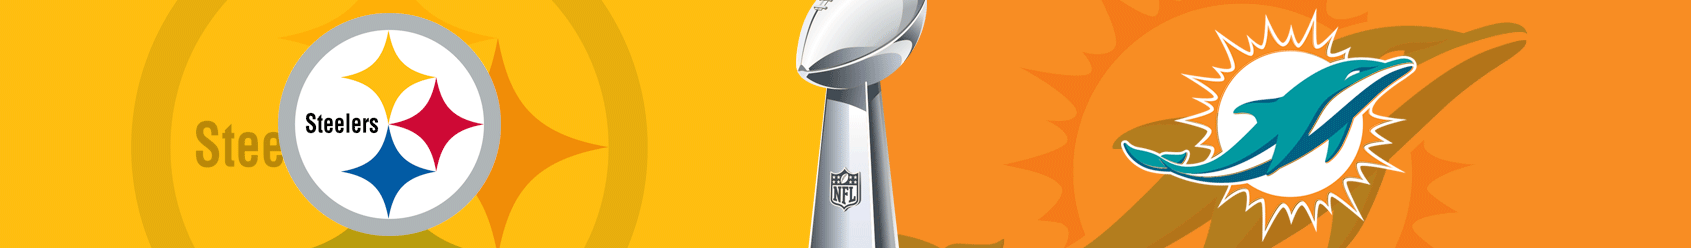
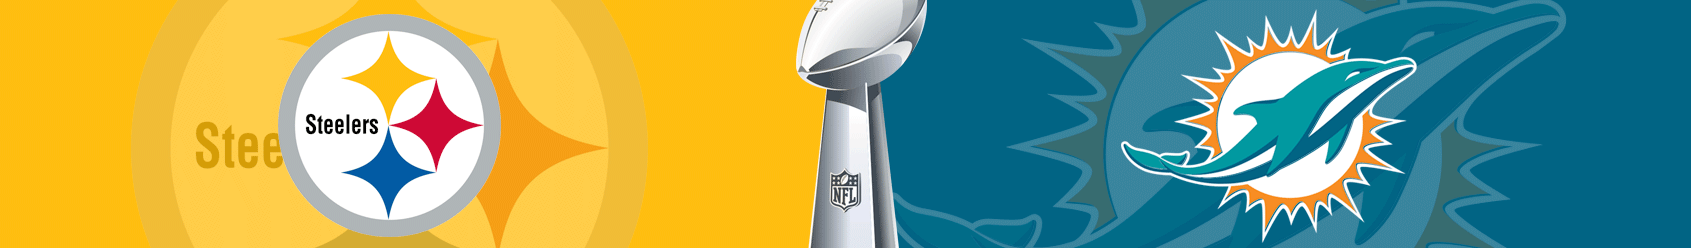
adjust dolphins colors

diff --git a/src/scss/themes/_playoff-theme.scss b/src/scss/themes/_playoff-theme.scss
@@ -1,5 +1,5 @@
 $teamColor1: #ffbe0d;
-$teamColor2: #f88d23;
+$teamColor2: #016484;
 $gameHeader: "TOP-pit-mia.png";
 $gameTitle: "TOP-pit-mia-title.png";
 
@@ -43,9 +43,11 @@ a[title="TOP-cta"]{
 	height: $h;
 	width: $w;
 	background-repeat: no-repeat;
-	background-image: url("../img/TOP-cta-button.png");
+	background-image: url("../img/TOP-cta-button--wait.png");
 	background-position: top left;
 	font-size: 0;
+	pointer-events: none;
+	cursor: default;
 	&::before{display: none;}
 	&:hover{
 		background-position: bottom left;
